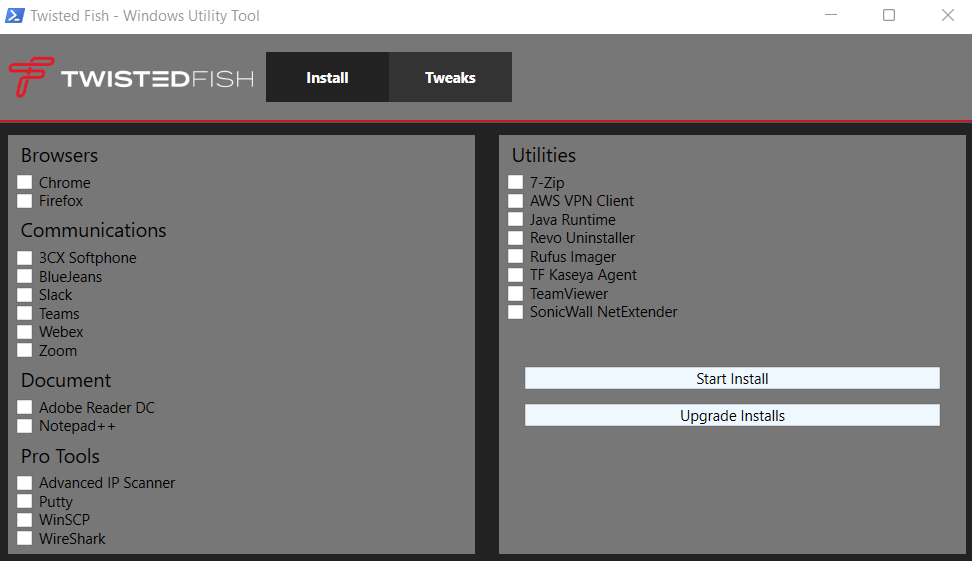
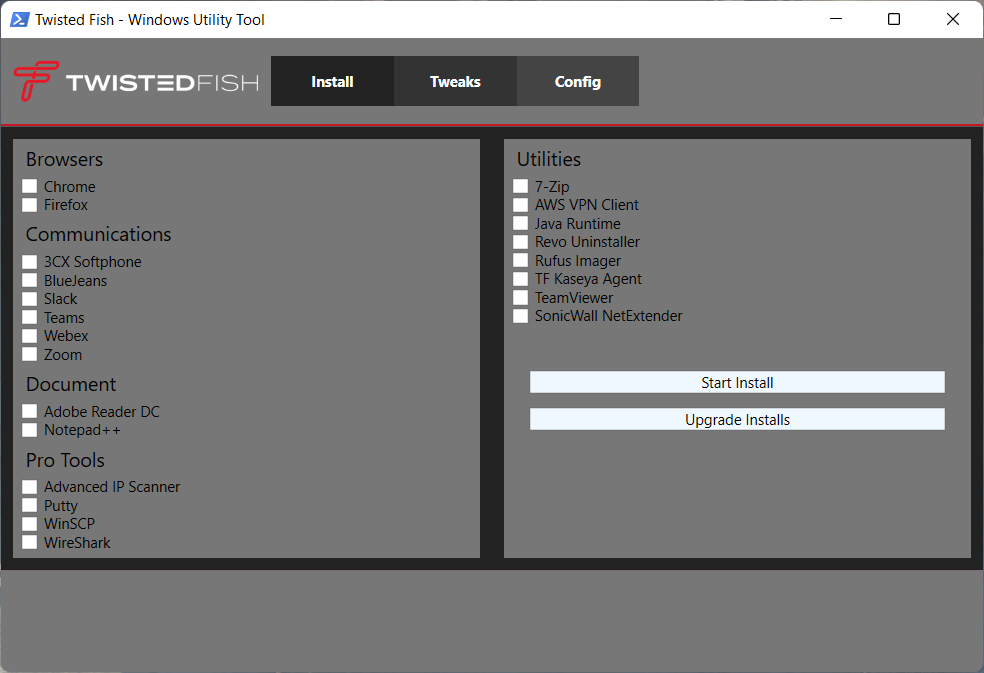
Cleanup
Cleanup UI and update Readme

Changed region(s): [[0.0, 0.0, 1.0, 1.0]]

diff --git a/MainWindow.xaml b/MainWindow.xaml
@@ -7,7 +7,7 @@
         mc:Ignorable="d"
         Background="#777777"
 		WindowStartupLocation="CenterScreen"
-        Title="Twisted Fish - Windows Utility Tool" Height="524" Width="800">
+        Title="Twisted Fish - Windows Utility Tool" Height="545" Width="800">
 	<Border Name="dummy" Grid.Column="0" Grid.Row="0">
 	<Viewbox Stretch="Uniform" VerticalAlignment="Top">
 		<Grid Background="#c31722" ShowGridLines="False" Name="MainGrid">
@@ -146,7 +146,7 @@
 					</Grid>
 				</TabItem>
 				<TabItem Header="Config" Visibility="Collapsed" Name="Tab3">
-					<Grid Background="#444444">
+					<Grid Background="#222222">
 						<Grid.ColumnDefinitions>
 							<ColumnDefinition Width="*"/>
 							<ColumnDefinition Width="*"/>

diff --git a/README.md b/README.md
@@ -4,6 +4,7 @@ This Utility is meant to streamline *installs*, debloat with *tweaks*
 
 ![install](install.png)
 ![tweaks](tweaks.png)
+![config](config.png)
 
 Requires you to launch PowerShell or Windows Terminal As ADMINISTRATOR! 
 
@@ -31,3 +32,8 @@ If you are having TLS 1.2 Issues or You cannot find or resolve `bit.ly/TFwut` th
 - Tweaks
   - Optimizes windows and reduces running processes
   - Has recommended settings for each type of system
+- Config
+  - Quick configurations for Windows Installs
+  - Has old legacy panels from Windows 7
+  - Reset Windows Update to factory settings
+  - System Corruption Scan
